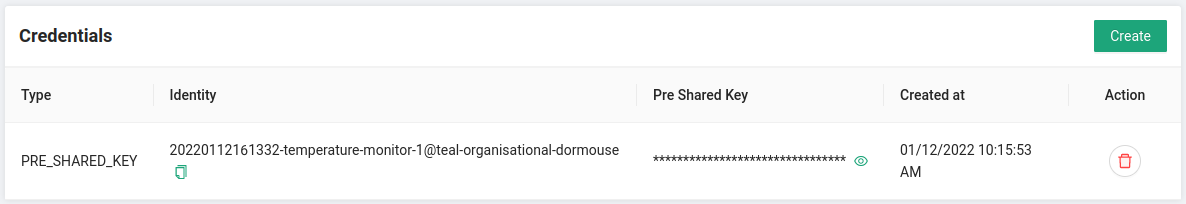
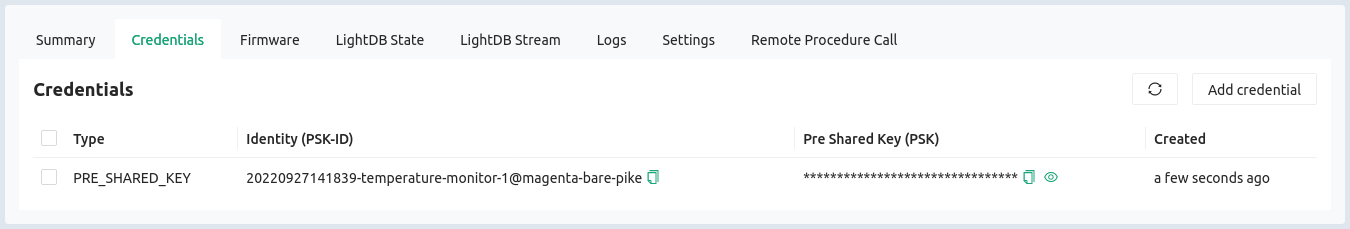
getting-started: overhaul authorize devices page
* Remove credentials creation because it not happens in the wizard
* Update image to match current state of the console
* Update copy to reflect changes in flow

diff --git a/docs/getting-started/2-console/4-authorize-devices.md b/docs/getting-started/2-console/4-authorize-devices.md
@@ -3,30 +3,25 @@ id: authorize-devices
 title: Authorize Devices
 ---
 
-To connect to the Golioth Cloud, we need to create credentials for the newly created device.
-
-Open the device details screen by first selecting the Management&rarr;Devices option from the left sidebar. This will bring up a list of all of your devices. In the Action column, click the sliders icon for your device.
-
-### Adding Device Credentials
-
-![A device without credentials](../assets/gettingstarted-console-deviceview-nocredentials.png)
-
-* Click the Create button in the Credentials section.
-
-    ![Adding device credentials](../assets/gettingstarted-console-createcredentials.png)
-
-* The identity of this device can be auto-generated from the device name so leave this empty
-* Golioth will automatically assign a random PSK, or you can choose your own
-* Click Save to go back to the device details screen
+To connect to the Golioth Cloud, we need to pass the newly created credentials
+to the hardware device.
 
 ### Retrieving Device Credentials
 
 ![Device details now includes device credentials](../assets/gettingstarted-console-deviceview-credentialspanel.png)
 
-The credentials have been added to this device. These two values (the Identity and the Pre Shared Key) are what your device needs to authenticate and connect to the Golioth Cloud. You can always return to this panel in the device details to retrieve these values.
+To access device credentials, select the Credentials tab from the device view
+in the Golioth Console. The PSK-ID and PSK (the Identity and the Pre Shared
+Key) are what your device needs to authenticate and connect to the Golioth
+Cloud. You can always return to this panel in the device details to retrieve
+these values.
 
 :::note
-When a device credential ID is automatically assigned it follows this format: GMT timestamp, the name of the device, and the name of the project. If you prefer shorter device IDs, you may want to choose the ID yourself. By convention, all device credential IDs will end with the `@` symbol followed by the project name.
+When a device credential ID is automatically assigned it follows this
+format: GMT timestamp, the name of the device, and the name of the project. If
+you prefer shorter device IDs, you may want to choose the ID yourself. By
+convention, all device credential IDs will end with the `@` symbol followed by
+the project name.
 :::
 
 Congratulations, you're ready to move on to selecting hardware!
